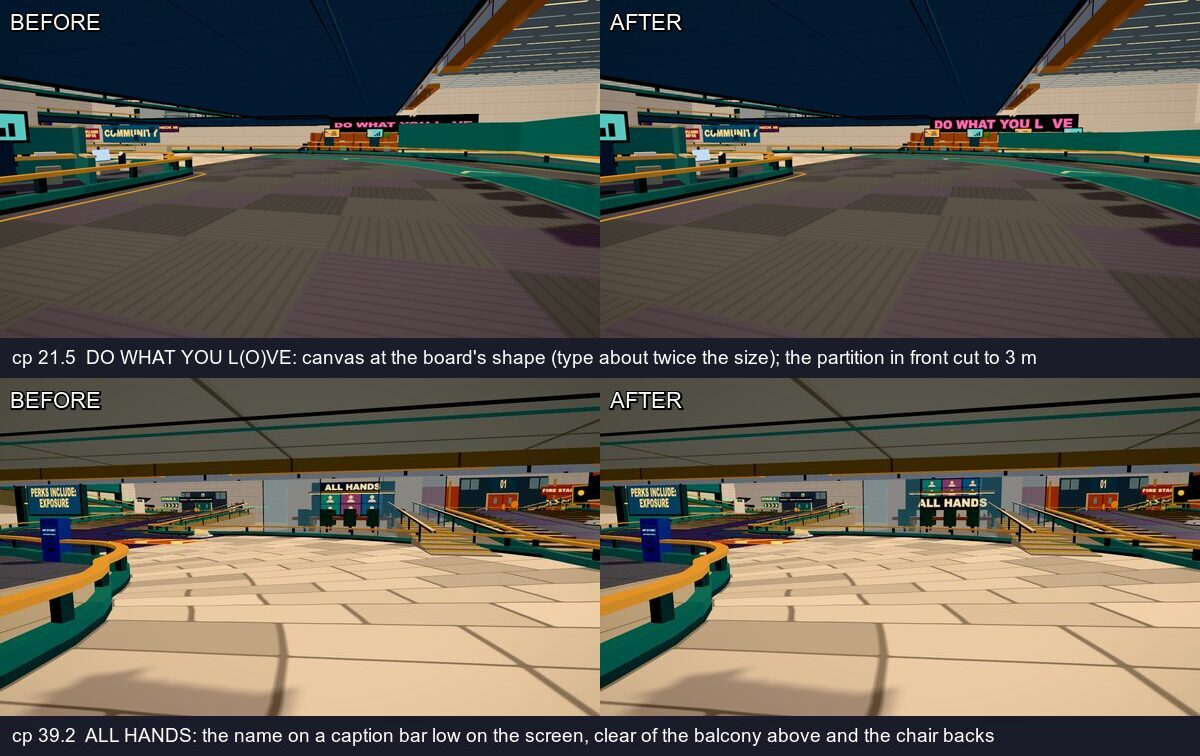
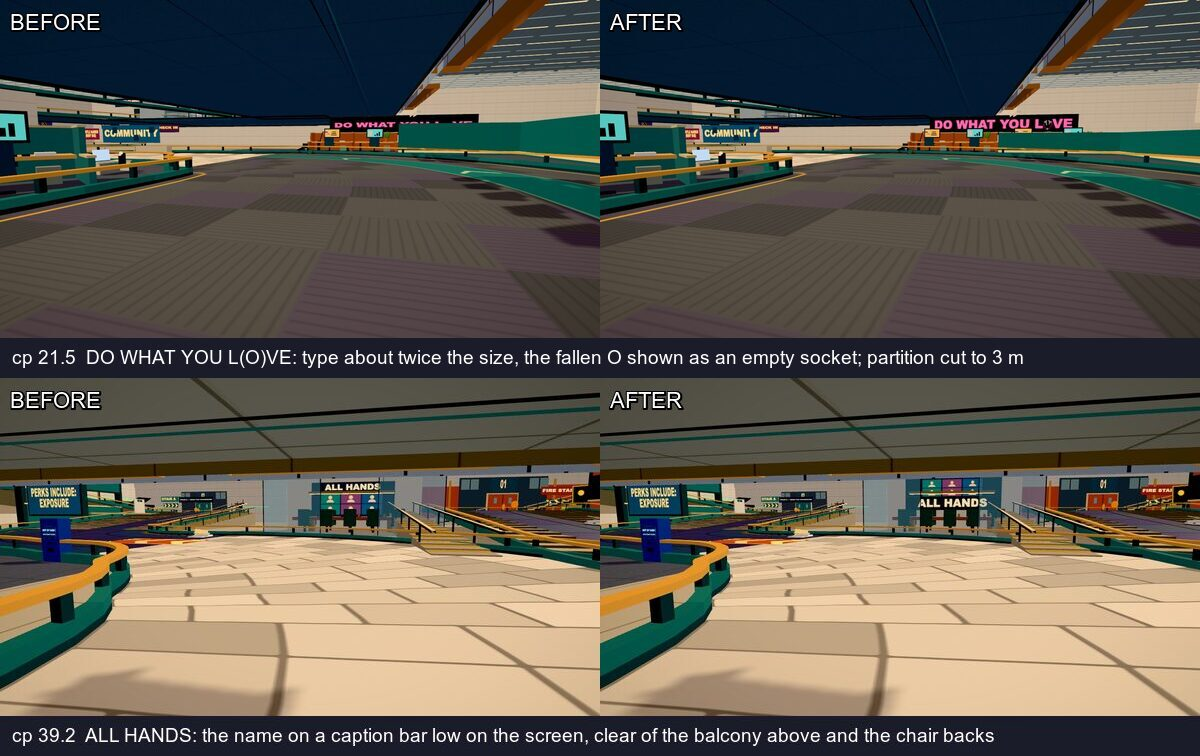
Review fixes: Hall 2's name once, WeWork's missing O shown, H₂O in one face (#399)
- Hall 2's door sign said HALL 2 · INFERENCE right under the new roof name
  with the same words; it now says ANSWERS: 100% CONFIDENT. The other hall
  entrances already pair a joke with a different name.
- DO WHAT YOU L VE: the gap is the O that fell into the road (the neonO
  obstacle), not a missing glyph; it now shows the letter's empty socket
  (dim dashed tube, clips, cut wires) so it reads as a dropped letter.
- Glyph sweep of every canvas string on all 13 tracks: the only character
  missing from its intended face was the subscript in H₂O → GPU (Arial
  Black has no ₂); the 2 is now drawn small in the sign's own face.

Changed region(s): [[0.2467, 0.4563, 0.8633, 0.4868]]

diff --git a/src/tracks/datacenter-dash.js b/src/tracks/datacenter-dash.js
@@ -76,7 +76,8 @@ const HALL_DEFS = [
     portal: ['NOW TRAINING', 'ON YOU', '#ff7847'], signIn: ['GPU HALL · 41°C AND RISING', '#ff8a5c'], signOut: ['COOL DOWN AHEAD (NOT REALLY)', '#ffd23c'], jokes: ['WE BOUGHT ALL OF THEM', 'FAN SPEED: YES', 'SPICY TENSORS INSIDE'] },
   { id: 'inference', from: 21.85, to: 26.45, wide: [23.5, 26.1], wideIn: 9.5, wideOut: 16, inAt: 24.0, narrow: 4.6, up: 9.8, upWide: 11.8, skin: 'neon',
     panel: ['#1d2333', '#262e42', '#121620', '#3dc8ff'], glow: 0x9fe6ff, band: 0x9fe6ff, accent: 0x1f6bff, tanks: [24.42, 25.2], screen: 24.05,
-    signIn: ['HALL 2 · INFERENCE', '#7fd0ff'], signOut: ['NOW LEAVING THE CLOUD', '#ffd23c'], signOutSub: 'NEXT: THE KEYNOTE (ATTENDANCE MANDATORY)',
+    // the door sign tells a joke: the hall's name is on the roof right above it
+    signIn: ['ANSWERS: 100% CONFIDENT', '#7fd0ff'], signOut: ['NOW LEAVING THE CLOUD', '#ffd23c'], signOutSub: 'NEXT: THE KEYNOTE (ATTENDANCE MANDATORY)',
     jokes: ['PLEASE HOLD. YOUR LAP IS IMPORTANT TO US', 'TRAINING RUN 7 OF ∞', 'NO GPUs WERE HARMED (MOST)', 'THIS HALL RUNS ON YOUR LAKE'] },
 ];
 /** Lap ranges that are indoors, Hall 9 included: for the tunnel zones, and for the sim/report. */
@@ -1896,7 +1897,13 @@ function reservoir({ THREE, track, ctx, sc, rng, bake, atlas, palette, view }) {
   }
   const gauge = ledSign(THREE, group, 768, 384, [8, 32.6, zc - 6.4], Math.PI, 15, 7.5);
   {
-    const s = atlas.add(768, 120, signDraw('H₂O → GPU', { bg: '#ffc928', fg: '#1a1d29', font: SANS, size: 80, lines: 1 }));
+    // the subscript 2 is drawn small in the sign's own face: Arial Black has no '₂', so it fell back to another font
+    const s = atlas.add(768, 120, (g, w, h) => {
+      g.fillStyle = '#ffc928'; g.fillRect(0, 0, w, h); g.fillStyle = '#1a1d29'; g.textBaseline = 'alphabetic'; g.textAlign = 'left';
+      const big = `80px ${SANS}`, small = `52px ${SANS}`, parts = [['H', big, 0], ['2', small, 14], ['O → GPU', big, 0]];
+      const width = parts.reduce((t, [txt, f]) => { g.font = f; return t + g.measureText(txt).width; }, 0), y = h / 2 + 28;
+      let x = (w - width) / 2; for (const [txt, f, dy] of parts) { g.font = f; g.fillText(txt, x, y + dy); x += g.measureText(txt).width; }
+    });
     atlas.place(s, [8, 25.1, -347.4 - 0.95], Math.PI, 11, 1.72);
   }
 

diff --git a/src/tracks/wework-memorial.js b/src/tracks/wework-memorial.js
@@ -591,7 +591,19 @@ function dressSectors(ctx, H) {
   }
 
   /* ================= S3: cubicle field ================= */
-  putSign(['DO WHAT YOU L  VE'], 26, 3.6, -88.5, 4.6, -28, 90, { bg: '#14060d', fg: '#ff7dbe', size: 150, w: 1024, h: 142 });   // canvas at the board's shape, so the type fills it (#397: squeezed into 1024x256 it read at half the size)
+  // canvas at the board's shape, so the type fills it (#397: squeezed into 1024x256 it read at half the size). The O fell into the
+  // road (the neonO obstacle on the field), so its gap shows the empty socket: a dark tube outline, its clips, and the cut wires.
+  putSign(['DO WHAT YOU L  VE'], 26, 3.6, -88.5, 4.6, -28, 90, { bg: '#14060d', fg: '#ff7dbe', size: 150, w: 1024, h: 142, after: (g, w, h) => {
+    const full = g.measureText('DO WHAT YOU L  VE').width, x = w / 2 - full / 2 + g.measureText('DO WHAT YOU L').width + g.measureText('  ').width / 2;
+    const o = g.measureText('O').width, r = o * 0.4, y = h / 2, lw = Math.max(3, o * 0.13);
+    g.save(); g.lineCap = 'round';
+    g.strokeStyle = 'rgba(255,125,190,.28)'; g.lineWidth = lw; g.setLineDash([lw * 1.6, lw * 1.1]); g.beginPath(); g.ellipse(x, y, r * 0.86, r, 0, 0, Math.PI * 2); g.stroke();
+    g.setLineDash([]); g.fillStyle = '#8a8f99'; for (const a of [-2.4, -0.7, 1.6]) g.fillRect(x + Math.cos(a) * r * 0.86 - lw * 0.6, y + Math.sin(a) * r - lw * 0.6, lw * 1.2, lw * 1.2);
+    g.strokeStyle = '#c9ccd4'; g.lineWidth = Math.max(2, lw * 0.35); g.beginPath();
+    g.moveTo(x - r * 0.3, y - r * 1.02); g.quadraticCurveTo(x - r * 0.45, y - r * 0.4, x - r * 0.2, y + r * 0.05);
+    g.moveTo(x + r * 0.25, y - r * 1.02); g.quadraticCurveTo(x + r * 0.4, y - r * 0.55, x + r * 0.32, y - r * 0.15); g.stroke();
+    g.restore();
+  } });
   putSign(['GROWTH (HOCKEY STICK)'], 11, 2.4, 0, 6, 1.55, 180, { bg: '#274b63', fg: '#ffe9a8' });
   // The main carpet is the aisle between two banks. Local +Z is the open side.
   for (const side of [-1,1]) {
